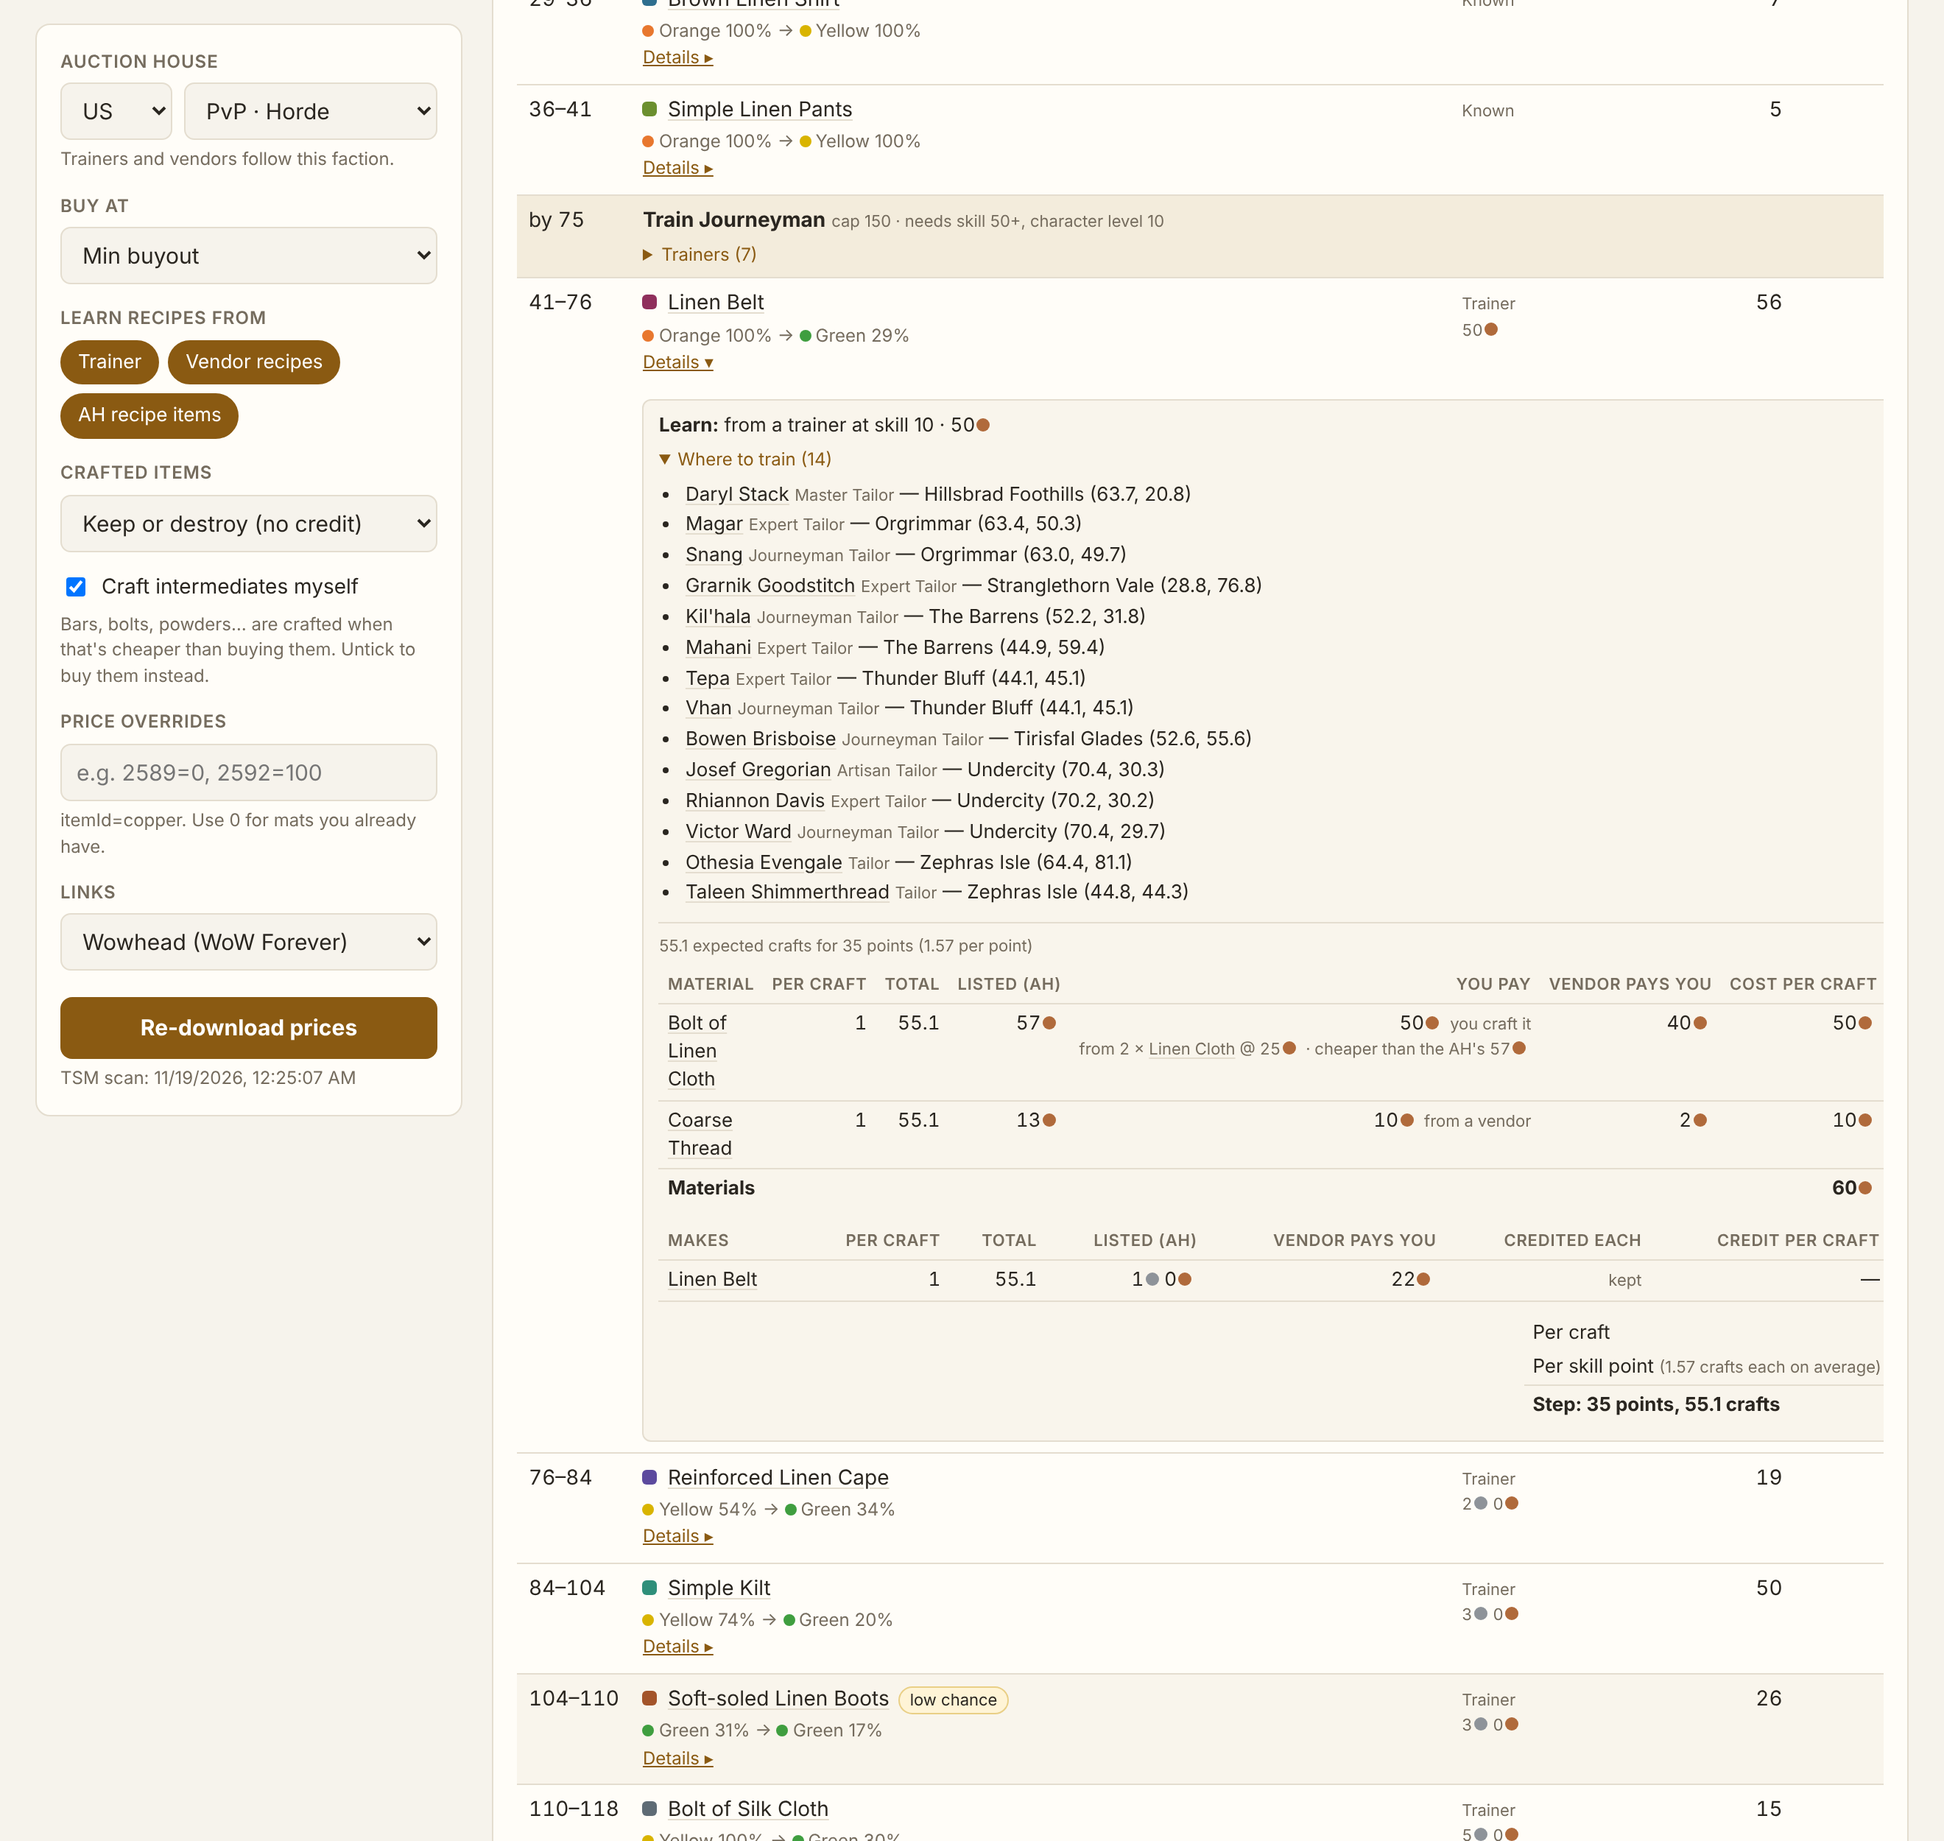
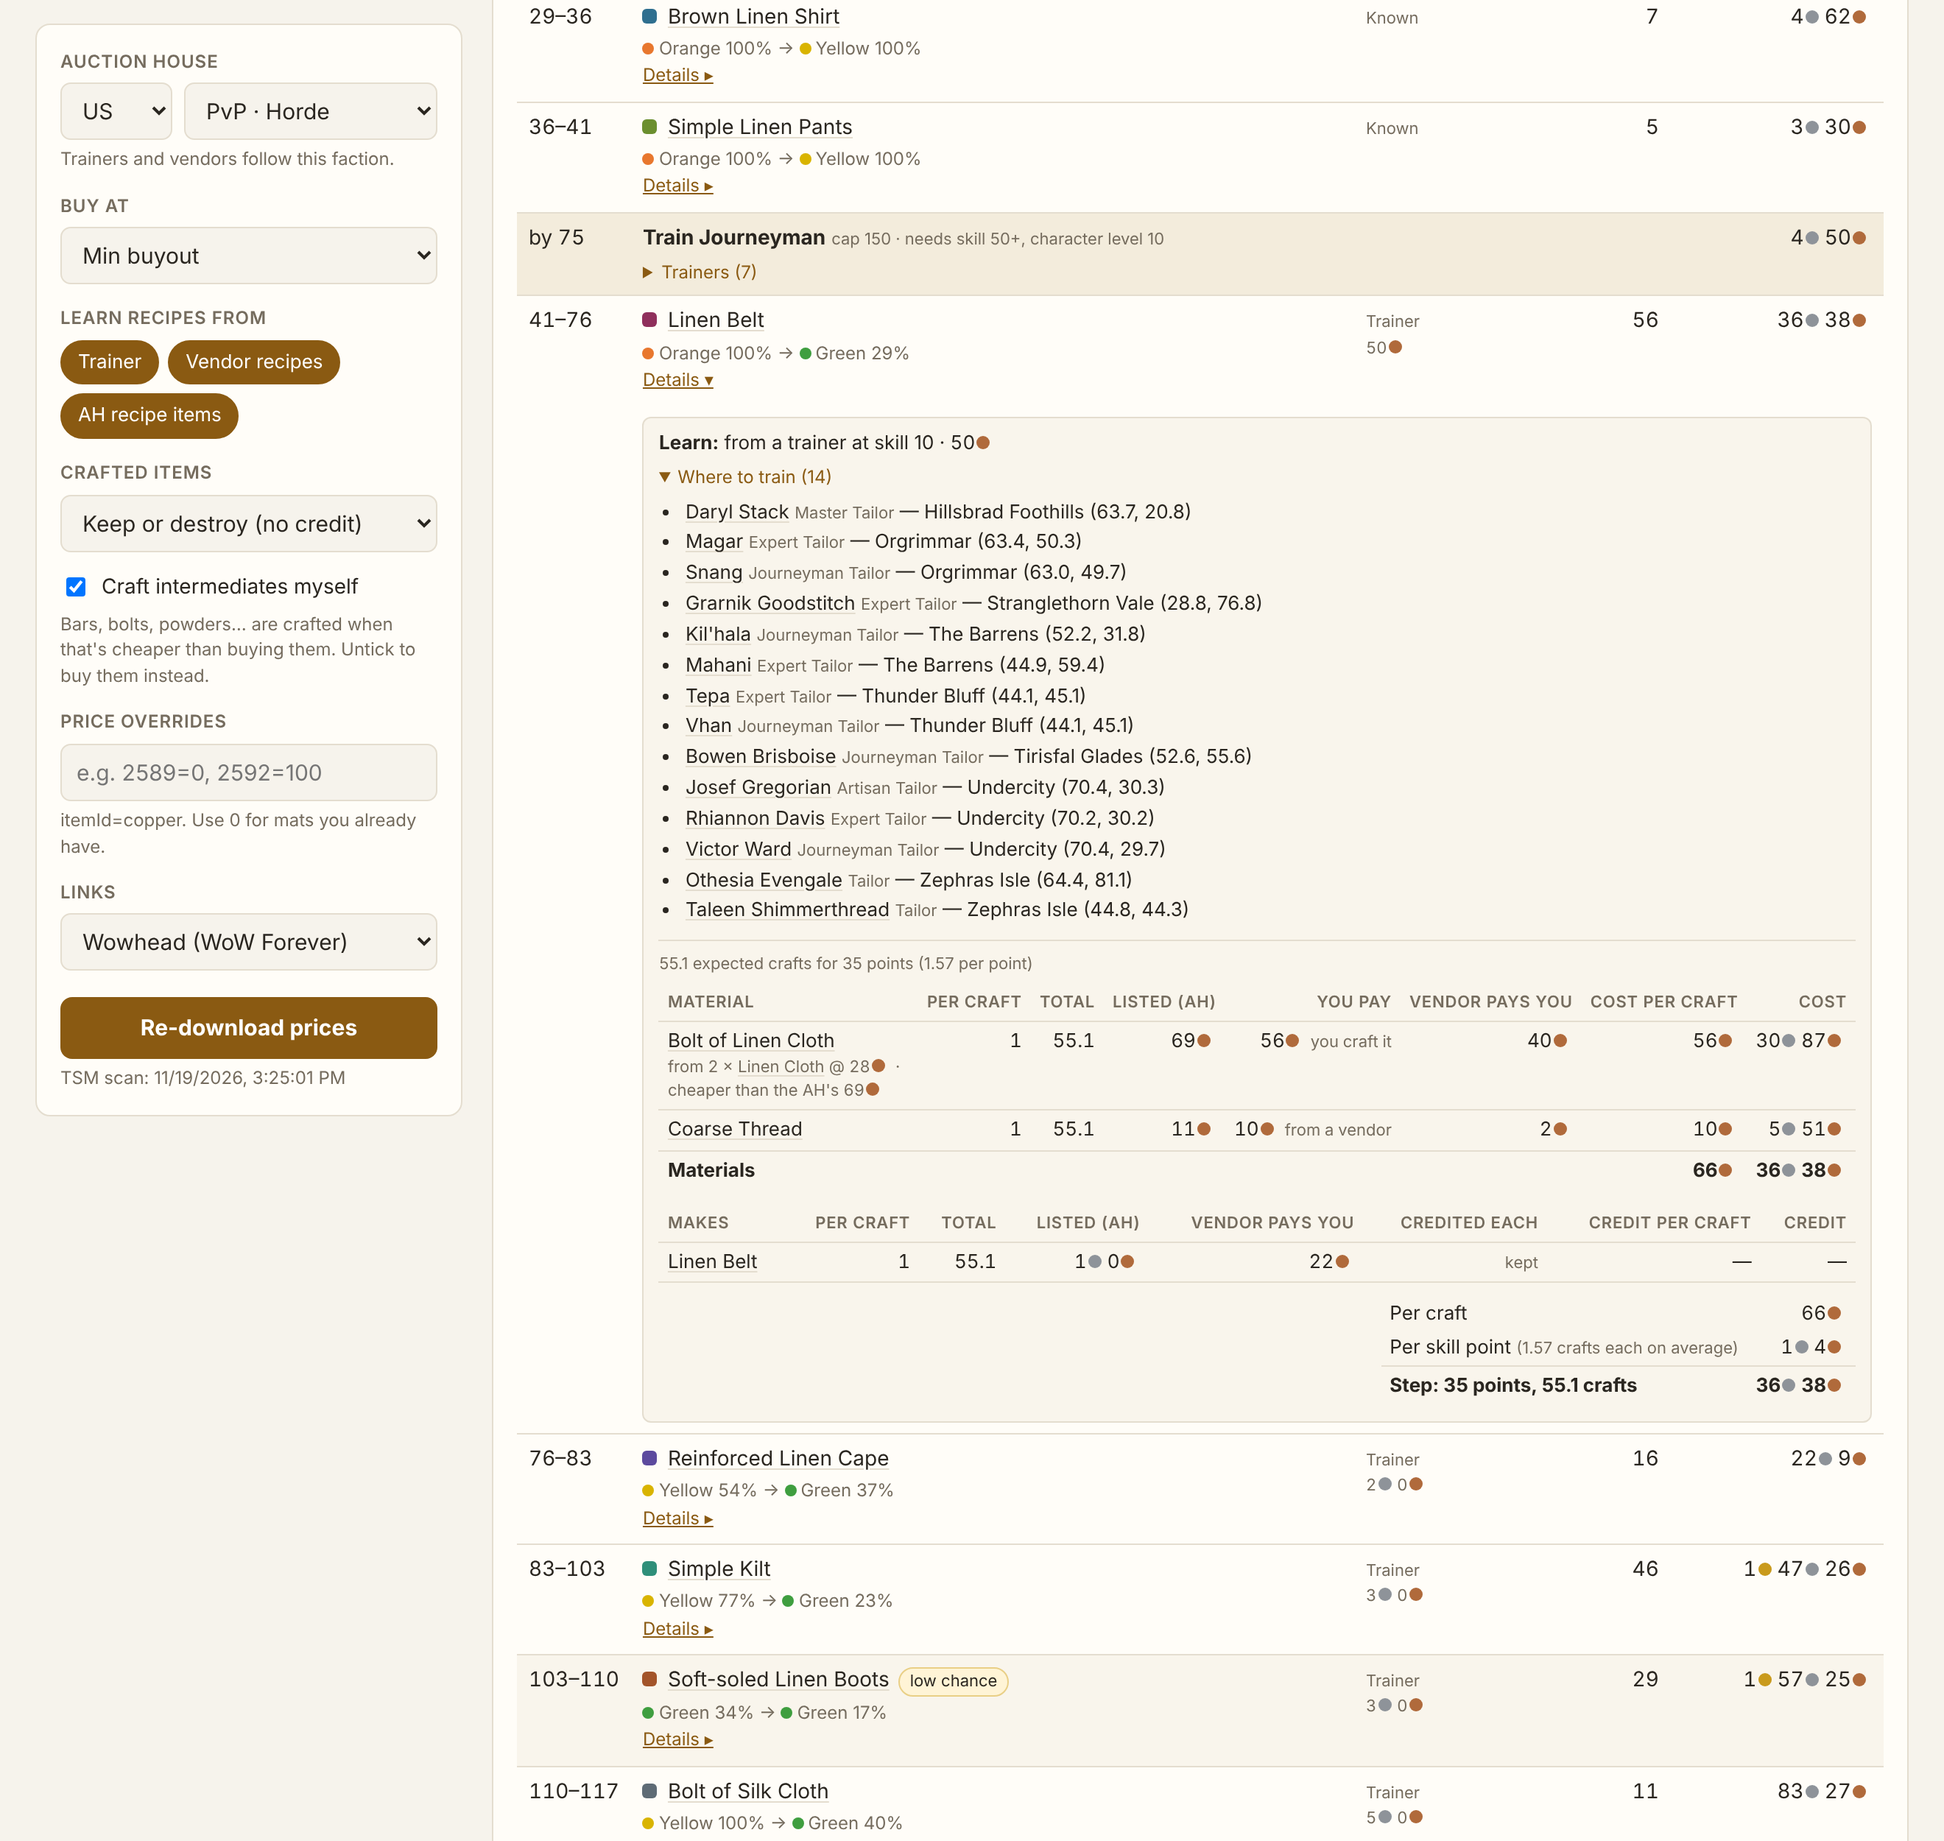
Overview: 'Up to' buttons to scale the bars to each milestone
Buttons for 75, 150, 225 and 300 draw each profession's bar only up to
that skill, scaled to the gold it costs to get there (with Same scale or
Full width); the right-hand number is the cost to that milestone, plus
your own target when it differs. Both the local app and the website.

Claude-Session: https://claude.ai/code/session_01TMo8f5YZQR2pyn6DoGXvyF

diff --git a/cheapest_skillup/site/index.html b/cheapest_skillup/site/index.html
@@ -71,6 +71,8 @@ h3 { font-size: 13px; text-transform: uppercase; letter-spacing: .5px; color: va
 
 /* Overview chart */
 .chart-head { display: flex; flex-wrap: wrap; gap: 10px 20px; align-items: center; justify-content: space-between; margin-bottom: 10px; }
+.chart-ctl { display: flex; flex-wrap: wrap; gap: 8px 16px; align-items: center; }
+.ctl-lbl { font-size: 12px; color: var(--muted); align-self: center; margin-right: 2px; }
 .legend { display: flex; flex-wrap: wrap; gap: 6px 16px; font-size: 13px; color: var(--muted); }
 .legend span { display: inline-flex; align-items: center; gap: 6px; }
 .legend i { width: 12px; height: 12px; border-radius: 3px; display: inline-block; }
@@ -257,7 +259,9 @@ function moneyText(c) {  // plain text, for bar labels
   const g = Math.floor(c / 10000), s = Math.floor(c / 100) % 100, cp = c % 100;
   return sign + (g >= 100 ? `${g.toLocaleString()}g` : g ? `${g}g ${s}s` : s ? `${s}s ${cp}c` : `${cp}c`);
 }
-const barSum = d => segments(d, {from: d.from}).reduce((a, s) => a + s.cost, 0);
+// Blocks drawn for "Up to" milestone UPTO: the stretches ending at or before it.
+const shownSegments = (d, st) => segments(d, st).filter(s => s.to <= UPTO);
+const barSum = d => shownSegments(d, {from: d.from}).reduce((a, s) => a + s.cost, 0);
 
 /* Wowhead links */
 const wh = (type, id, text) => id ? `<a class="wh" href="https://www.wowhead.com/${SETTINGS.wh}/${type}=${id}" target="_blank" rel="noopener">${esc(text)}</a>` : esc(text);
@@ -266,6 +270,7 @@ let OPT, SETTINGS;
 let PROFS = store.get("profs") || {};
 let VIEW = store.get("view") || "route";
 let SCALE = store.get("scale") || "shared";
+let UPTO = [75, 150, 225, 300].includes(store.get("upto")) ? store.get("upto") : 300;  // bars run to this skill
 let refreshNext = false;
 
 function profState(key) {
@@ -418,16 +423,22 @@ async function renderOverview() {
   $("#main").innerHTML = `<div class="panel">
     <div class="chart-head">
       <div class="legend" aria-label="Legend">${TIERS.map((t, i) => `<span><i style="background:var(--m${i + 1})"></i>${i ? TIERS[i - 1].cap : 1}–${t.cap} ${t.name}</span>`).join("")}</div>
-      <div class="chips" role="group" aria-label="Bar width">
-        <button type="button" class="chip" data-scale="shared" aria-pressed="${SCALE === "shared"}">Same scale</button>
-        <button type="button" class="chip" data-scale="full" aria-pressed="${SCALE === "full"}">Full width</button>
+      <div class="chart-ctl">
+        <div class="chips" role="group" aria-label="Bars run up to skill">
+          <span class="ctl-lbl">Up to</span>${OPT.milestones.map(m => `<button type="button" class="chip" data-upto="${m}" aria-pressed="${UPTO === m}">${m}</button>`).join("")}
+        </div>
+        <div class="chips" role="group" aria-label="Bar width">
+          <button type="button" class="chip" data-scale="shared" aria-pressed="${SCALE === "shared"}">Same scale</button>
+          <button type="button" class="chip" data-scale="full" aria-pressed="${SCALE === "full"}">Full width</button>
+        </div>
       </div>
     </div>
-    <div class="meta">Cost from your skill to 300, split by milestone (materials, recipes, trainer fees and ranks). The line marks your target; textured blocks lie beyond it. Click a block to make its end your target; click a name to open its route.</div>
+    <div class="meta">Gold cost from your skill to ${UPTO}, split by milestone (materials, recipes, trainer fees and ranks). The line marks your target; textured blocks lie beyond it. Click a block to make its end your target; click a name to open its route.</div>
     <div id="rows"></div>
     <details class="note"><summary>Show as a table</summary><div id="table" class="table-wrap"></div></details>
   </div>`;
   document.querySelectorAll("[data-scale]").forEach(b => b.onclick = () => { SCALE = b.dataset.scale; store.set("scale", SCALE); renderOverview(); });
+  document.querySelectorAll("[data-upto]").forEach(b => b.onclick = () => { UPTO = +b.dataset.upto; store.set("upto", UPTO); renderOverview(); });
   const rows = $("#rows");
   const results = await Promise.all(profs.map(async p => {
     const st = profState(p.key);
@@ -478,9 +489,14 @@ function segments(d, st) {
 }
 
 function drawBar({p, st, div, d}, max) {
-  const segs = segments(d, st);
-  const total300 = d.milestones.at(-1)?.total_copper || 0;
+  const segs = shownSegments(d, st);
+  const toUpto = d.milestones.find(m => m.to === UPTO);
   const sum = segs.reduce((a, s) => a + s.cost, 0);
+  if (!segs.length) {
+    $(".bar-cell", div).innerHTML = `<span class="src">Already past ${UPTO} (your skill is ${st.from}).</span>`;
+    $(".ptotal", div).innerHTML = "";
+    return;
+  }
   // The bar's length is its share of the scale; inside it, blocks split the length by cost (never overflowing).
   const length = SCALE === "full" ? 100 : Math.max(sum / max * 100, 0.5);
   const toTarget = d.milestones.find(m => m.to === st.to);
@@ -511,9 +527,9 @@ function drawBar({p, st, div, d}, max) {
     el.onclick = pick;
     el.onkeydown = e => { if (e.key === "Enter" || e.key === " ") { e.preventDefault(); pick(); } };
   });
-  $(".ptotal", div).innerHTML = toTarget
-    ? `<div class="big">${money(toTarget.total_copper)}</div><div class="src">to ${st.to}</div>${st.to !== 300 ? `<div class="src">300: ${money(total300)}</div>` : ""}`
-    : `<div class="src">300: ${money(total300)}</div>`;
+  // The big number matches the bar: the cost to the chosen milestone. Your own target, if different, below it.
+  $(".ptotal", div).innerHTML = (toUpto ? `<div class="big">${money(toUpto.total_copper)}</div><div class="src">to ${UPTO}</div>` : "")
+    + (toTarget && st.to !== UPTO ? `<div class="src">target ${st.to}: ${money(toTarget.total_copper)}</div>` : "");
 }
 
 function drawTable(results) {

diff --git a/cheapest_skillup/web/index.html b/cheapest_skillup/web/index.html
@@ -71,6 +71,8 @@ h3 { font-size: 13px; text-transform: uppercase; letter-spacing: .5px; color: va
 
 /* Overview chart */
 .chart-head { display: flex; flex-wrap: wrap; gap: 10px 20px; align-items: center; justify-content: space-between; margin-bottom: 10px; }
+.chart-ctl { display: flex; flex-wrap: wrap; gap: 8px 16px; align-items: center; }
+.ctl-lbl { font-size: 12px; color: var(--muted); align-self: center; margin-right: 2px; }
 .legend { display: flex; flex-wrap: wrap; gap: 6px 16px; font-size: 13px; color: var(--muted); }
 .legend span { display: inline-flex; align-items: center; gap: 6px; }
 .legend i { width: 12px; height: 12px; border-radius: 3px; display: inline-block; }
@@ -258,7 +260,9 @@ function moneyText(c) {  // plain text, for bar labels
   const g = Math.floor(c / 10000), s = Math.floor(c / 100) % 100, cp = c % 100;
   return sign + (g >= 100 ? `${g.toLocaleString()}g` : g ? `${g}g ${s}s` : s ? `${s}s ${cp}c` : `${cp}c`);
 }
-const barSum = d => segments(d, {from: d.from}).reduce((a, s) => a + s.cost, 0);
+// Blocks drawn for "Up to" milestone UPTO: the stretches ending at or before it.
+const shownSegments = (d, st) => segments(d, st).filter(s => s.to <= UPTO);
+const barSum = d => shownSegments(d, {from: d.from}).reduce((a, s) => a + s.cost, 0);
 
 /* Wowhead links */
 const wh = (type, id, text) => id ? `<a class="wh" href="https://www.wowhead.com/${SETTINGS.wh}/${type}=${id}" target="_blank" rel="noopener">${esc(text)}</a>` : esc(text);
@@ -267,6 +271,7 @@ let OPT, SETTINGS;
 let PROFS = store.get("profs") || {};
 let VIEW = store.get("view") || "route";
 let SCALE = store.get("scale") || "shared";
+let UPTO = [75, 150, 225, 300].includes(store.get("upto")) ? store.get("upto") : 300;  // bars run to this skill
 let refreshNext = false;
 
 function profState(key) {
@@ -359,16 +364,22 @@ async function renderOverview() {
   $("#main").innerHTML = `<div class="panel">
     <div class="chart-head">
       <div class="legend" aria-label="Legend">${TIERS.map((t, i) => `<span><i style="background:var(--m${i + 1})"></i>${i ? TIERS[i - 1].cap : 1}–${t.cap} ${t.name}</span>`).join("")}</div>
-      <div class="chips" role="group" aria-label="Bar width">
-        <button type="button" class="chip" data-scale="shared" aria-pressed="${SCALE === "shared"}">Same scale</button>
-        <button type="button" class="chip" data-scale="full" aria-pressed="${SCALE === "full"}">Full width</button>
+      <div class="chart-ctl">
+        <div class="chips" role="group" aria-label="Bars run up to skill">
+          <span class="ctl-lbl">Up to</span>${OPT.milestones.map(m => `<button type="button" class="chip" data-upto="${m}" aria-pressed="${UPTO === m}">${m}</button>`).join("")}
+        </div>
+        <div class="chips" role="group" aria-label="Bar width">
+          <button type="button" class="chip" data-scale="shared" aria-pressed="${SCALE === "shared"}">Same scale</button>
+          <button type="button" class="chip" data-scale="full" aria-pressed="${SCALE === "full"}">Full width</button>
+        </div>
       </div>
     </div>
-    <div class="meta">Cost from your skill to 300, split by milestone (materials, recipes, trainer fees and ranks). The line marks your target; textured blocks lie beyond it. Click a block to make its end your target; click a name to open its route.</div>
+    <div class="meta">Gold cost from your skill to ${UPTO}, split by milestone (materials, recipes, trainer fees and ranks). The line marks your target; textured blocks lie beyond it. Click a block to make its end your target; click a name to open its route.</div>
     <div id="rows"></div>
     <details class="note"><summary>Show as a table</summary><div id="table" class="table-wrap"></div></details>
   </div>`;
   document.querySelectorAll("[data-scale]").forEach(b => b.onclick = () => { SCALE = b.dataset.scale; store.set("scale", SCALE); renderOverview(); });
+  document.querySelectorAll("[data-upto]").forEach(b => b.onclick = () => { UPTO = +b.dataset.upto; store.set("upto", UPTO); renderOverview(); });
   const rows = $("#rows");
   const results = await Promise.all(profs.map(async p => {
     const st = profState(p.key);
@@ -419,9 +430,14 @@ function segments(d, st) {
 }
 
 function drawBar({p, st, div, d}, max) {
-  const segs = segments(d, st);
-  const total300 = d.milestones.at(-1)?.total_copper || 0;
+  const segs = shownSegments(d, st);
+  const toUpto = d.milestones.find(m => m.to === UPTO);
   const sum = segs.reduce((a, s) => a + s.cost, 0);
+  if (!segs.length) {
+    $(".bar-cell", div).innerHTML = `<span class="src">Already past ${UPTO} (your skill is ${st.from}).</span>`;
+    $(".ptotal", div).innerHTML = "";
+    return;
+  }
   // The bar's length is its share of the scale; inside it, blocks split the length by cost (never overflowing).
   const length = SCALE === "full" ? 100 : Math.max(sum / max * 100, 0.5);
   const toTarget = d.milestones.find(m => m.to === st.to);
@@ -452,9 +468,9 @@ function drawBar({p, st, div, d}, max) {
     el.onclick = pick;
     el.onkeydown = e => { if (e.key === "Enter" || e.key === " ") { e.preventDefault(); pick(); } };
   });
-  $(".ptotal", div).innerHTML = toTarget
-    ? `<div class="big">${money(toTarget.total_copper)}</div><div class="src">to ${st.to}</div>${st.to !== 300 ? `<div class="src">300: ${money(total300)}</div>` : ""}`
-    : `<div class="src">300: ${money(total300)}</div>`;
+  // The big number matches the bar: the cost to the chosen milestone. Your own target, if different, below it.
+  $(".ptotal", div).innerHTML = (toUpto ? `<div class="big">${money(toUpto.total_copper)}</div><div class="src">to ${UPTO}</div>` : "")
+    + (toTarget && st.to !== UPTO ? `<div class="src">target ${st.to}: ${money(toTarget.total_copper)}</div>` : "");
 }
 
 function drawTable(results) {

diff --git a/README.md b/README.md
@@ -72,6 +72,9 @@ JavaScript and Python planners on the same data and fails if their routes or tot
 **Overview.** A bar chart with one bar per profession, running from your current skill to 300. Each bar
 is split into milestone blocks, shaded light to dark: 1–75 Apprentice, 75–150 Journeyman, 150–225
 Expert and 225–300 Artisan. Each block's width is what that stretch costs.
+* **Up to 75 / 150 / 225 / 300** draws each bar only as far as that milestone, scaled to the gold it
+  costs to get there, so you can compare professions at 150 as easily as at 300. The number on the right
+  is the cost to that milestone (and to your own target, if it differs).
 * *Same scale* compares professions on one axis; *Full width* shows each profession's own split.
 * A line marks your target, and textured blocks lie beyond it.
 * Set your skill and target per profession, or click a block to make its end your target.
